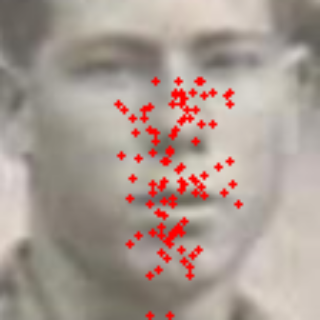
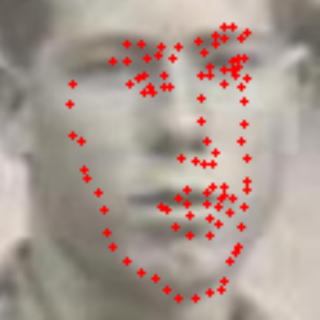
updated 2022.06.22

diff --git a/source/facial_landmark/train.py b/source/facial_landmark/train.py
@@ -77,24 +77,6 @@ def adjust_lr(epoch, lr):
         return lr * 0.93
 
 
-def build_lrfn(lr_start=0.001, lr_max=0.007, 
-               lr_min=0.0001, lr_rampup_epochs=5, 
-               lr_sustain_epochs=0, lr_exp_decay=.8):
-    lr_max = lr_max * strategy.num_replicas_in_sync
-
-    def lrfn(epoch):
-        if epoch < lr_rampup_epochs:
-            lr = (lr_max - lr_start) / lr_rampup_epochs * epoch + lr_start
-        elif epoch < lr_rampup_epochs + lr_sustain_epochs:
-            lr = lr_max
-        else:
-            lr = (lr_max - lr_min) *\
-                 lr_exp_decay**(epoch - lr_rampup_epochs\
-                                - lr_sustain_epochs) + lr_min
-        return lr
-    return lrfn
-
-
 if __name__ == "__main__":   
     batch_size = 256
     epochs = 1000
@@ -105,10 +87,9 @@ if __name__ == "__main__":
     train_datasets = PFLDDatasets('/data/Datasets/CUSTOM_WFLW/train_data/list.txt', batch_size)
     valid_datasets = PFLDDatasets('/data/Datasets/CUSTOM_WFLW/test_data/list.txt', batch_size)
     
-    lrfn = build_lrfn()
     optimizer = tf.keras.optimizers.Adam(learning_rate=lr)
     callback = [DisplayCallback(),
-                tf.keras.callbacks.LearningRateScheduler(lrfn),
+                # tf.keras.callbacks.LearningRateScheduler(adjust_lr),
                 tf.keras.callbacks.ModelCheckpoint("/data/Models/facial_landmark/best.h5", monitor="val_loss", verbose=1, save_best_only=True, save_weights_only=True)]
 
     with strategy.scope():

diff --git a/source/facial_landmark/wflw_albumentation.py b/source/facial_landmark/wflw_albumentation.py
@@ -80,11 +80,28 @@ def refine_bbox(image_file, landmark, augmentation):
     y2 = min(height, y2)
 
     if not augmentation:
-        imgT = image[y1:y2, x1:x2]
-        imgT = cv2.resize(imgT, (IMG_SIZE, IMG_SIZE))
-        landmark = (landmark - xy) / boxsize
+        # imgT = image[y1:y2, x1:x2]
+        # imgT = cv2.resize(imgT, (IMG_SIZE, IMG_SIZE))
+        # landmark = (landmark - xy) / boxsize
         # visualize_sample(imgT, [0, 0, 0, 0], landmark * IMG_SIZE)
-        return imgT, landmark
+        # return imgT, landmark
+
+        normal_transform = A.Compose([
+            A.Crop(x_min=x1, y_min=y1, x_max=x2, y_max=y2, always_apply=True),
+            A.Resize(IMG_SIZE, IMG_SIZE, always_apply=True),
+        ], keypoint_params=A.KeypointParams(format="xy", remove_invisible=False))
+
+        normal_transformed = normal_transform(image=image, keypoints=landmark)
+        normal_transformed_image, normal_transformed_landmark = normal_transformed['image'], normal_transformed['keypoints']
+        
+        refine_shape = []
+        for (x, y) in normal_transformed_landmark:
+            refine_shape.append([x, y])
+
+        refine_shape = np.array(refine_shape, dtype=np.float32).reshape(-1, 2)
+        normal_transformed_landmark = refine_shape / IMG_SIZE
+
+        return normal_transformed_image, normal_transformed_landmark
 
     else:
         image, landmark = augment_data(image, landmark, x1, y1, x2, y2)
